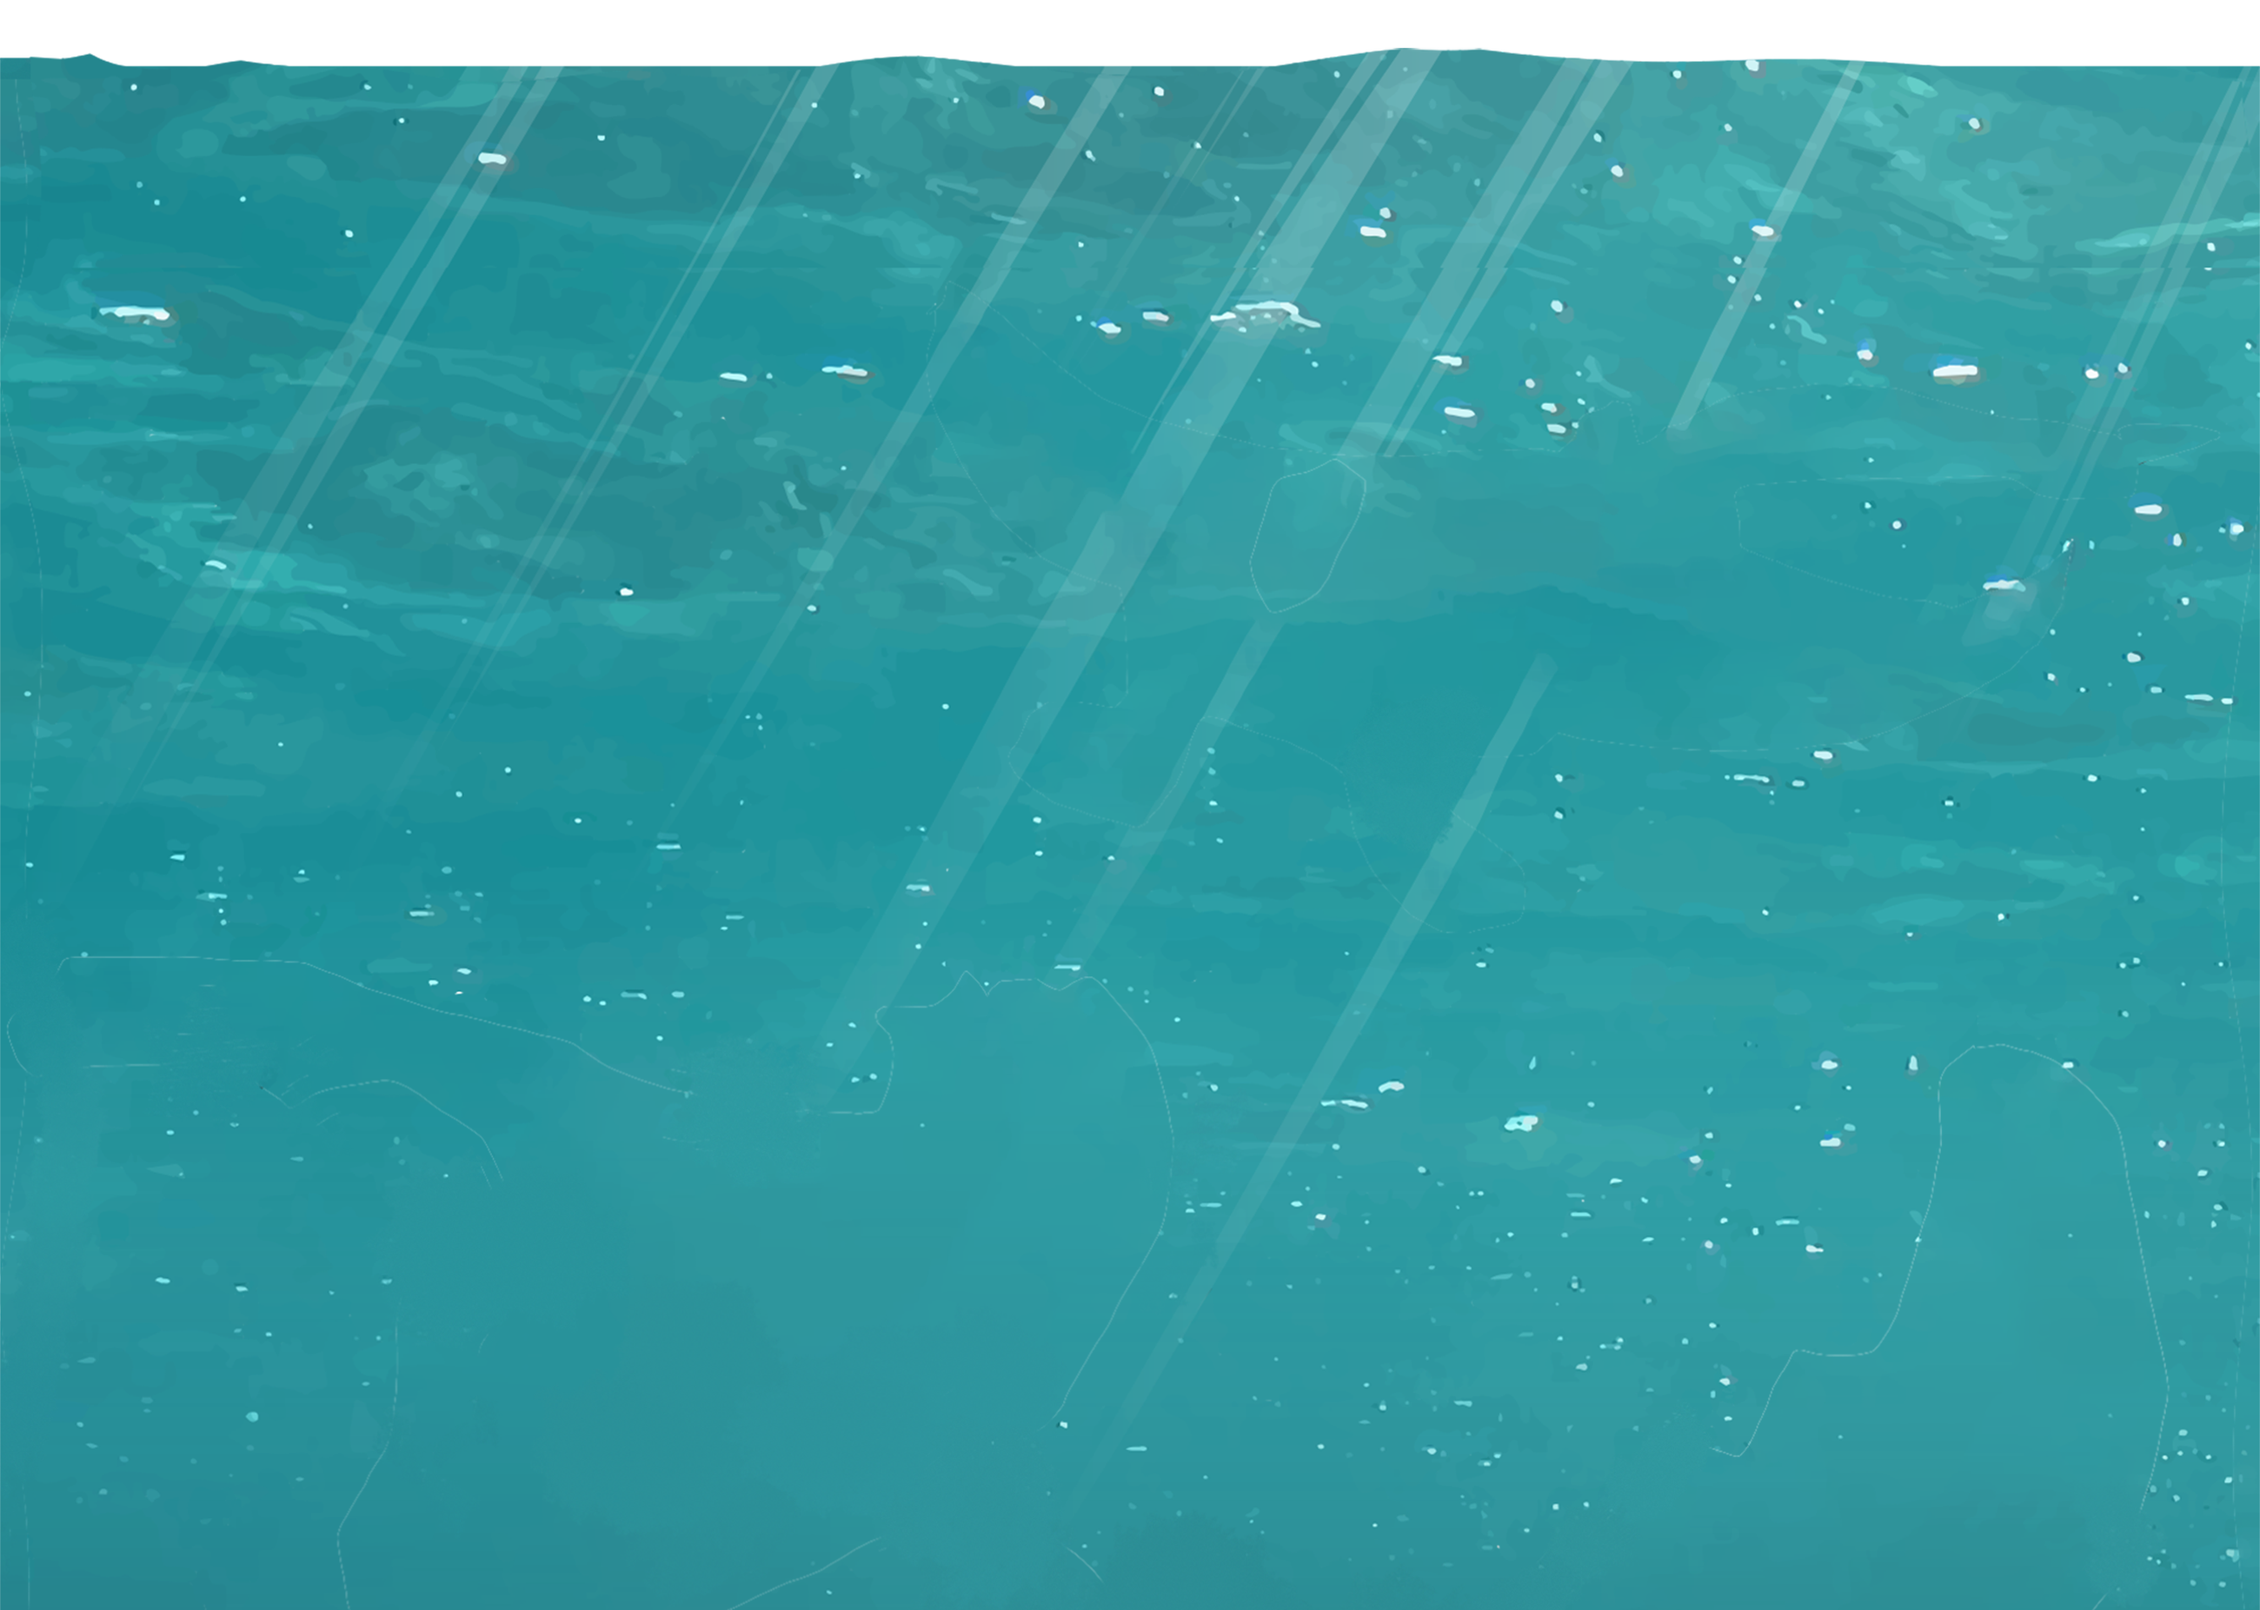
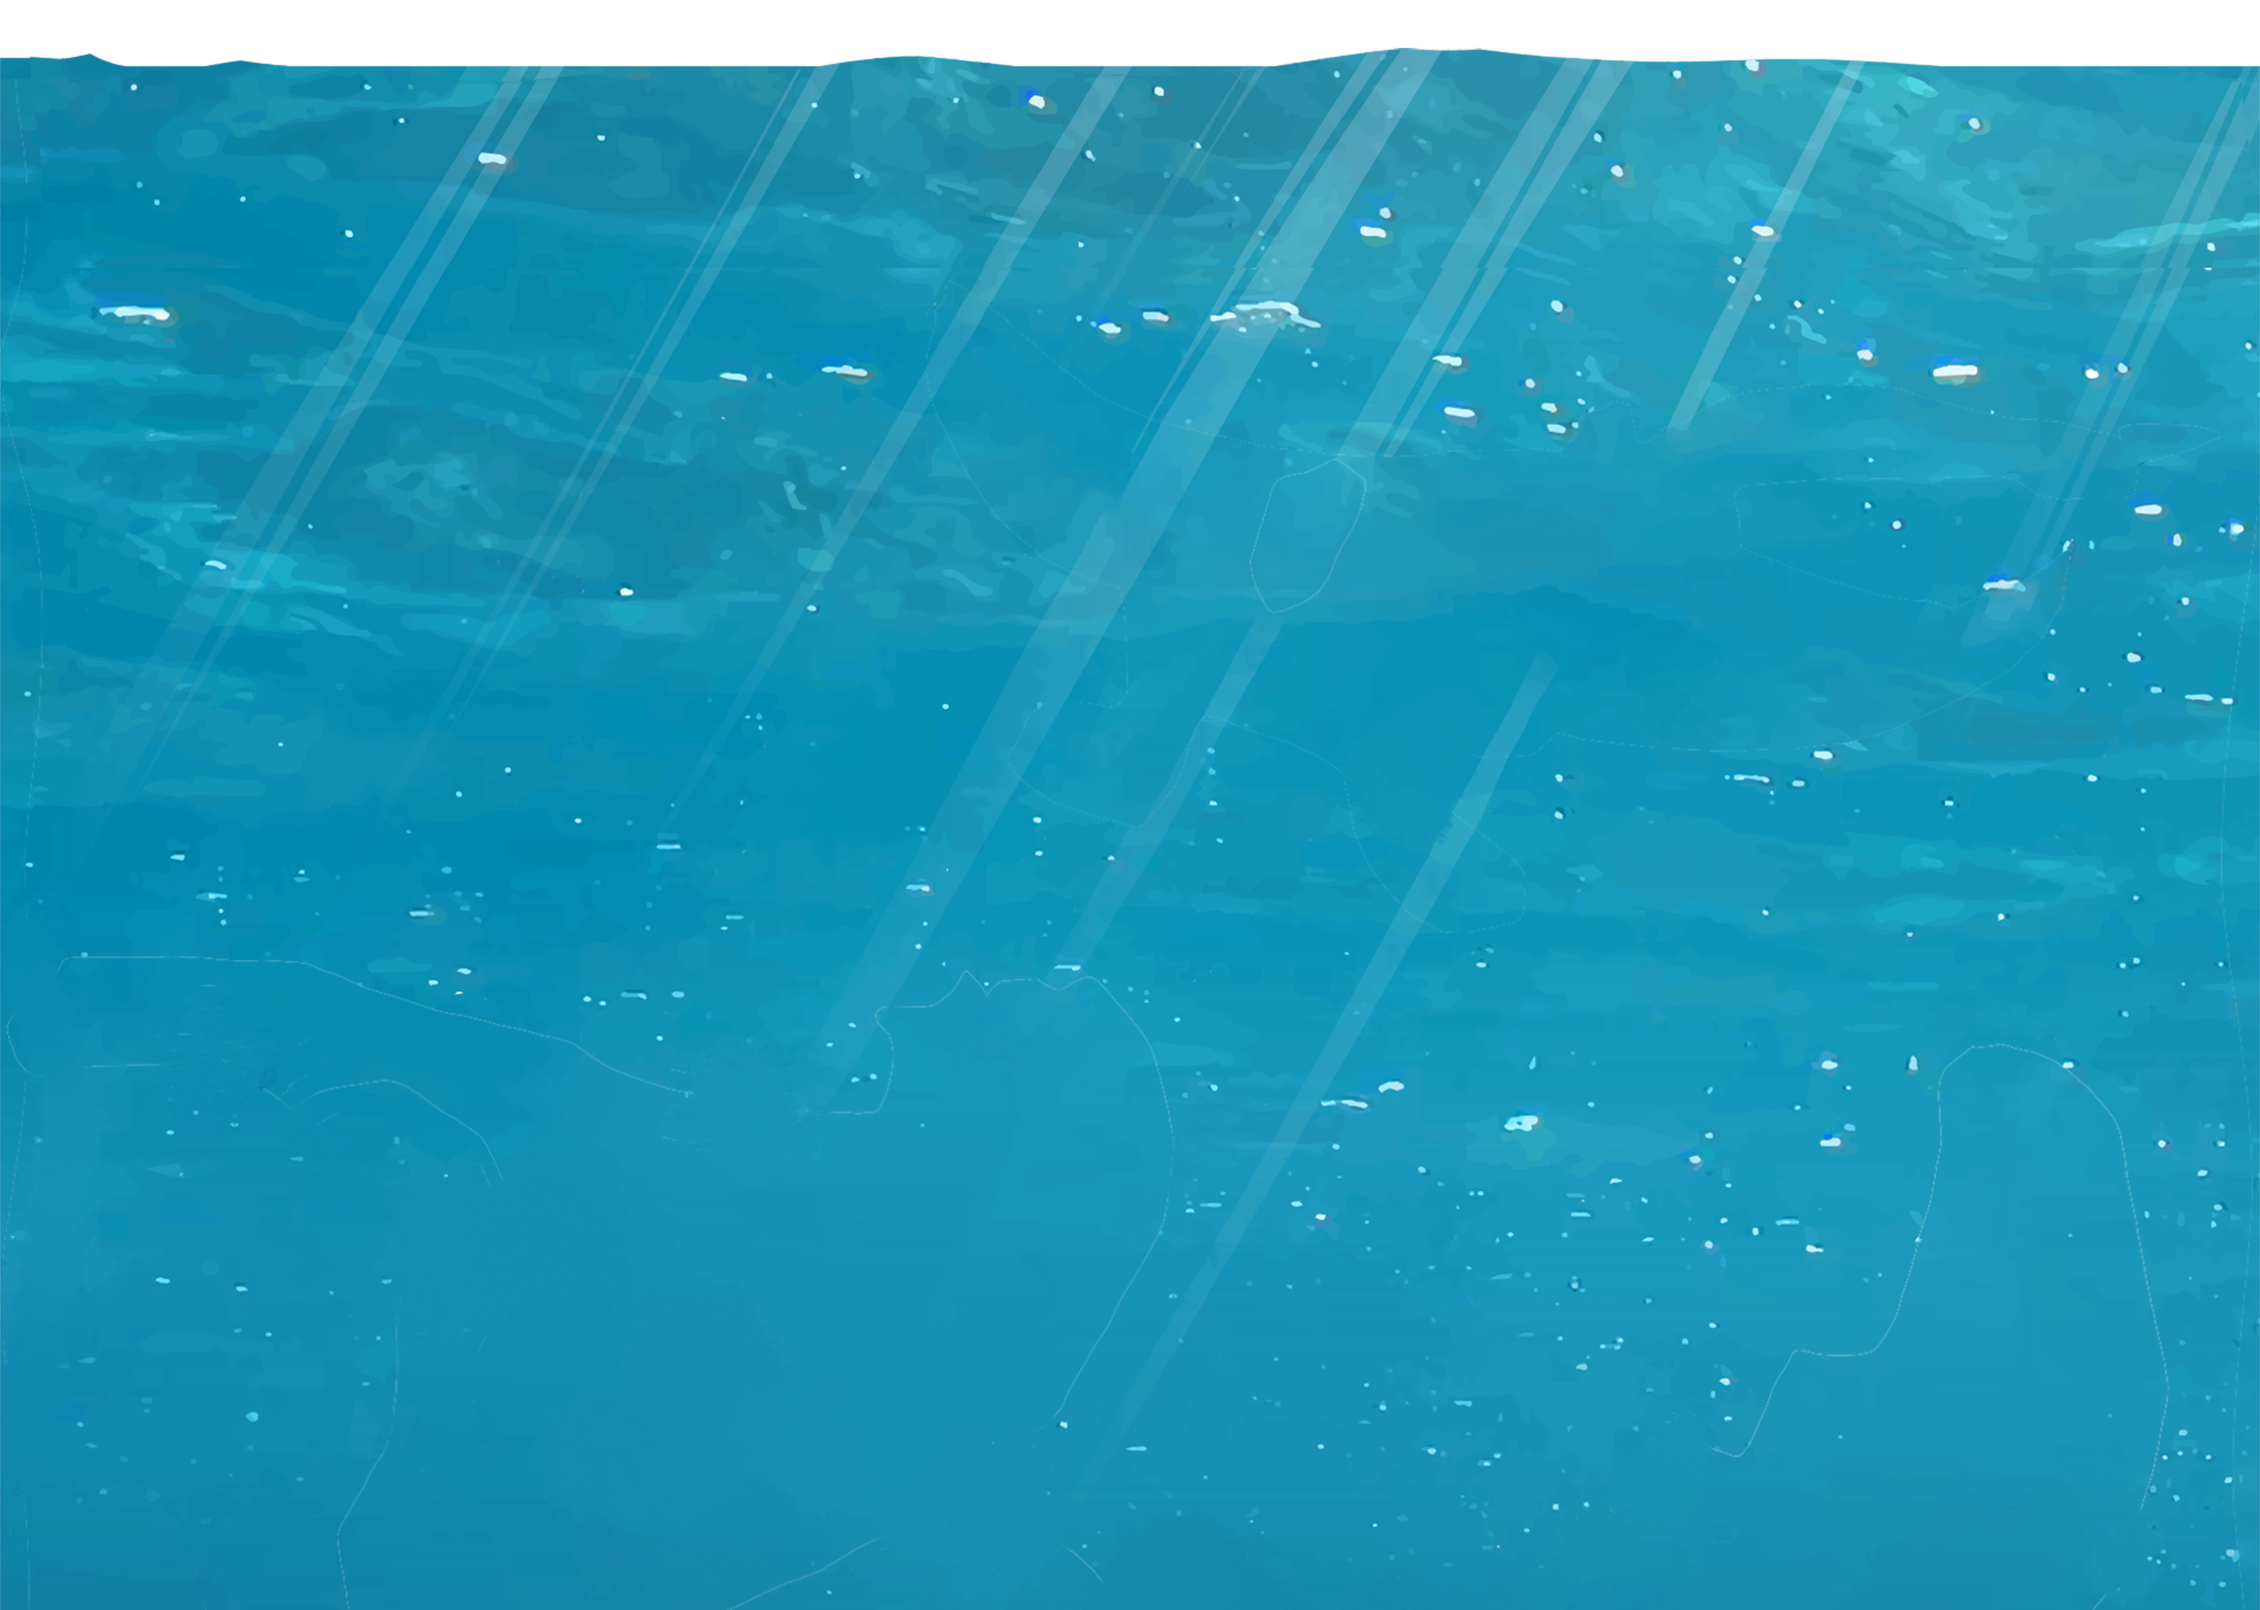
style: Finish styling cards and change shade of ocean.

diff --git a/script.js b/script.js
@@ -1,6 +1,5 @@
 $(document).ready(function () {
   
-//     const input = document.querySelector('input');
 const log = document.getElementById('values');
 
 input.addEventListener('input', updateValue);
@@ -9,10 +8,7 @@ function updateValue(e) {
   log.textContent = e.target.value;
 }
 
-    // let e = 
-    let queryURL = "https://api.openweathermap.org/data/2.5/forecast?q={city name},{state code},{country code}&appid="9c31a3b4618fe0ad90a6912f6418fb0c"
-    
-}
+let queryURL = "https://api.openweathermap.org/data/2.5/forecast?q={city name},{state code},{country code}&appid=9c31a3b4618fe0ad90a6912f6418fb0c"
 
         var city = $(this).attr("data-name");
         var queryURL = "https://api.openweathermap.org/data/2.5/forecast?q=" + city + "&apikey=9c31a3b4618fe0ad90a6912f6418fb0c";

diff --git a/style.css b/style.css
@@ -19,13 +19,43 @@ h2 {
   color: #fa295a;
 }
 
+h3 {
+  font-family: "Open Sans", sans-serif;
+  color: white;
+}
+
 p {
   font-size: 2rem;
   text-align: left;
+  color: white;
   /* line-height: 2.5rem; */
   /* box-align: left; */
   margin-right: 8rem;
 }
+
+div .card {
+  background-color: #01b7e5;
+}
+
+/* #card-1 {
+  background-color: #d20241;
+}
+
+#card-2 {
+  background-color: #01b7e5;
+}
+
+#card-3 {
+  background-color: #02d215;
+}
+
+#card-4 {
+  background-color: #02d215;
+}
+
+#card-5 {
+  background-color: #02d215;
+} */
 
 ul {
   margin: 25px;

diff --git a/index.html b/index.html
@@ -83,10 +83,11 @@
     <body>
     
     <h2>Five-Day Forecast</h2>
+    <br><br>
     
     <div class="row">
       <div class="column">
-        <div class="card" id="card-1">
+        <div class="card">
           <h3>Day 1</h3>
           <p>Some text</p>
           <p>Some text</p>
